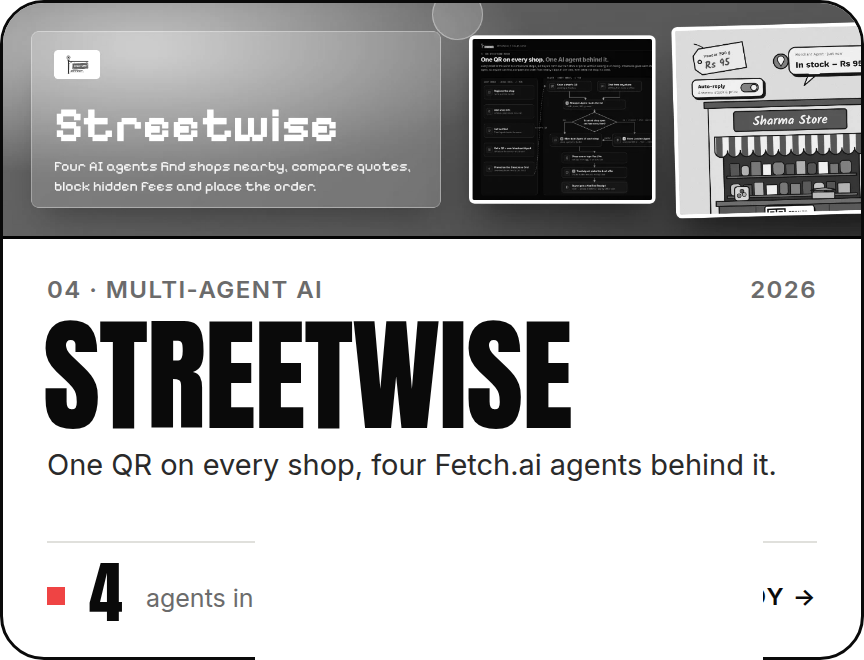
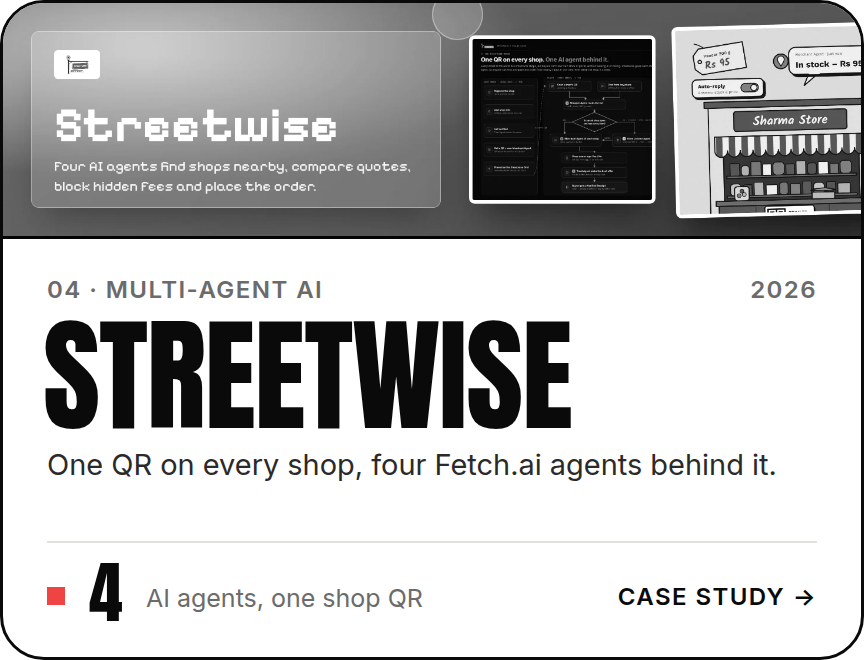
Fix Streetwise card label

Changed region(s): [[0.1562, 0.8788, 0.5, 0.9394], [0.3125, 0.9697, 0.875, 1.0], [0.7188, 0.8788, 0.875, 0.9394]]

diff --git a/scripts/build_solox.py b/scripts/build_solox.py
@@ -117,7 +117,7 @@ if __name__ == "__main__":
     project("closeby", 1, "CloseBy", "AI marketplace", "Your street's shops, online. One gateway guards every AI call.", "0", "oversells, 50 buyers vs 5 units", PAL[0], "cards/closeby-wide.webp")
     project("stack", 2, "Stack", "Web + Android", "A local-first reading app that brings your highlights back.", "500/500", "with 2 AI engines down", PAL[1], "cards/stack-wide.webp")
     project("scancart", 3, "ScanCart.ai", "Chrome extension", "7 parallel AI checks behind one Trust Score for any listing.", "7", "checks, one verdict", PAL[2], "cards/scancart-wide.webp")
-    project("streetwise", 4, "Streetwise", "Multi-agent AI", "One QR on every shop, four Fetch.ai agents behind it.", "4", "agents in typed messages", PAL[3], "cards/streetwise-wide.webp")
+    project("streetwise", 4, "Streetwise", "Multi-agent AI", "One QR on every shop, four Fetch.ai agents behind it.", "4", "AI agents, one shop QR", PAL[3], "cards/streetwise-wide.webp")
     project("orderly", 5, "Orderly", "WhatsApp bot", "Run your kirana shop on WhatsApp. Buyers install nothing.", "45 s", "bot heartbeat in the owner app", PAL[4], "cards/orderly-wide.webp")
     more()
     about()
